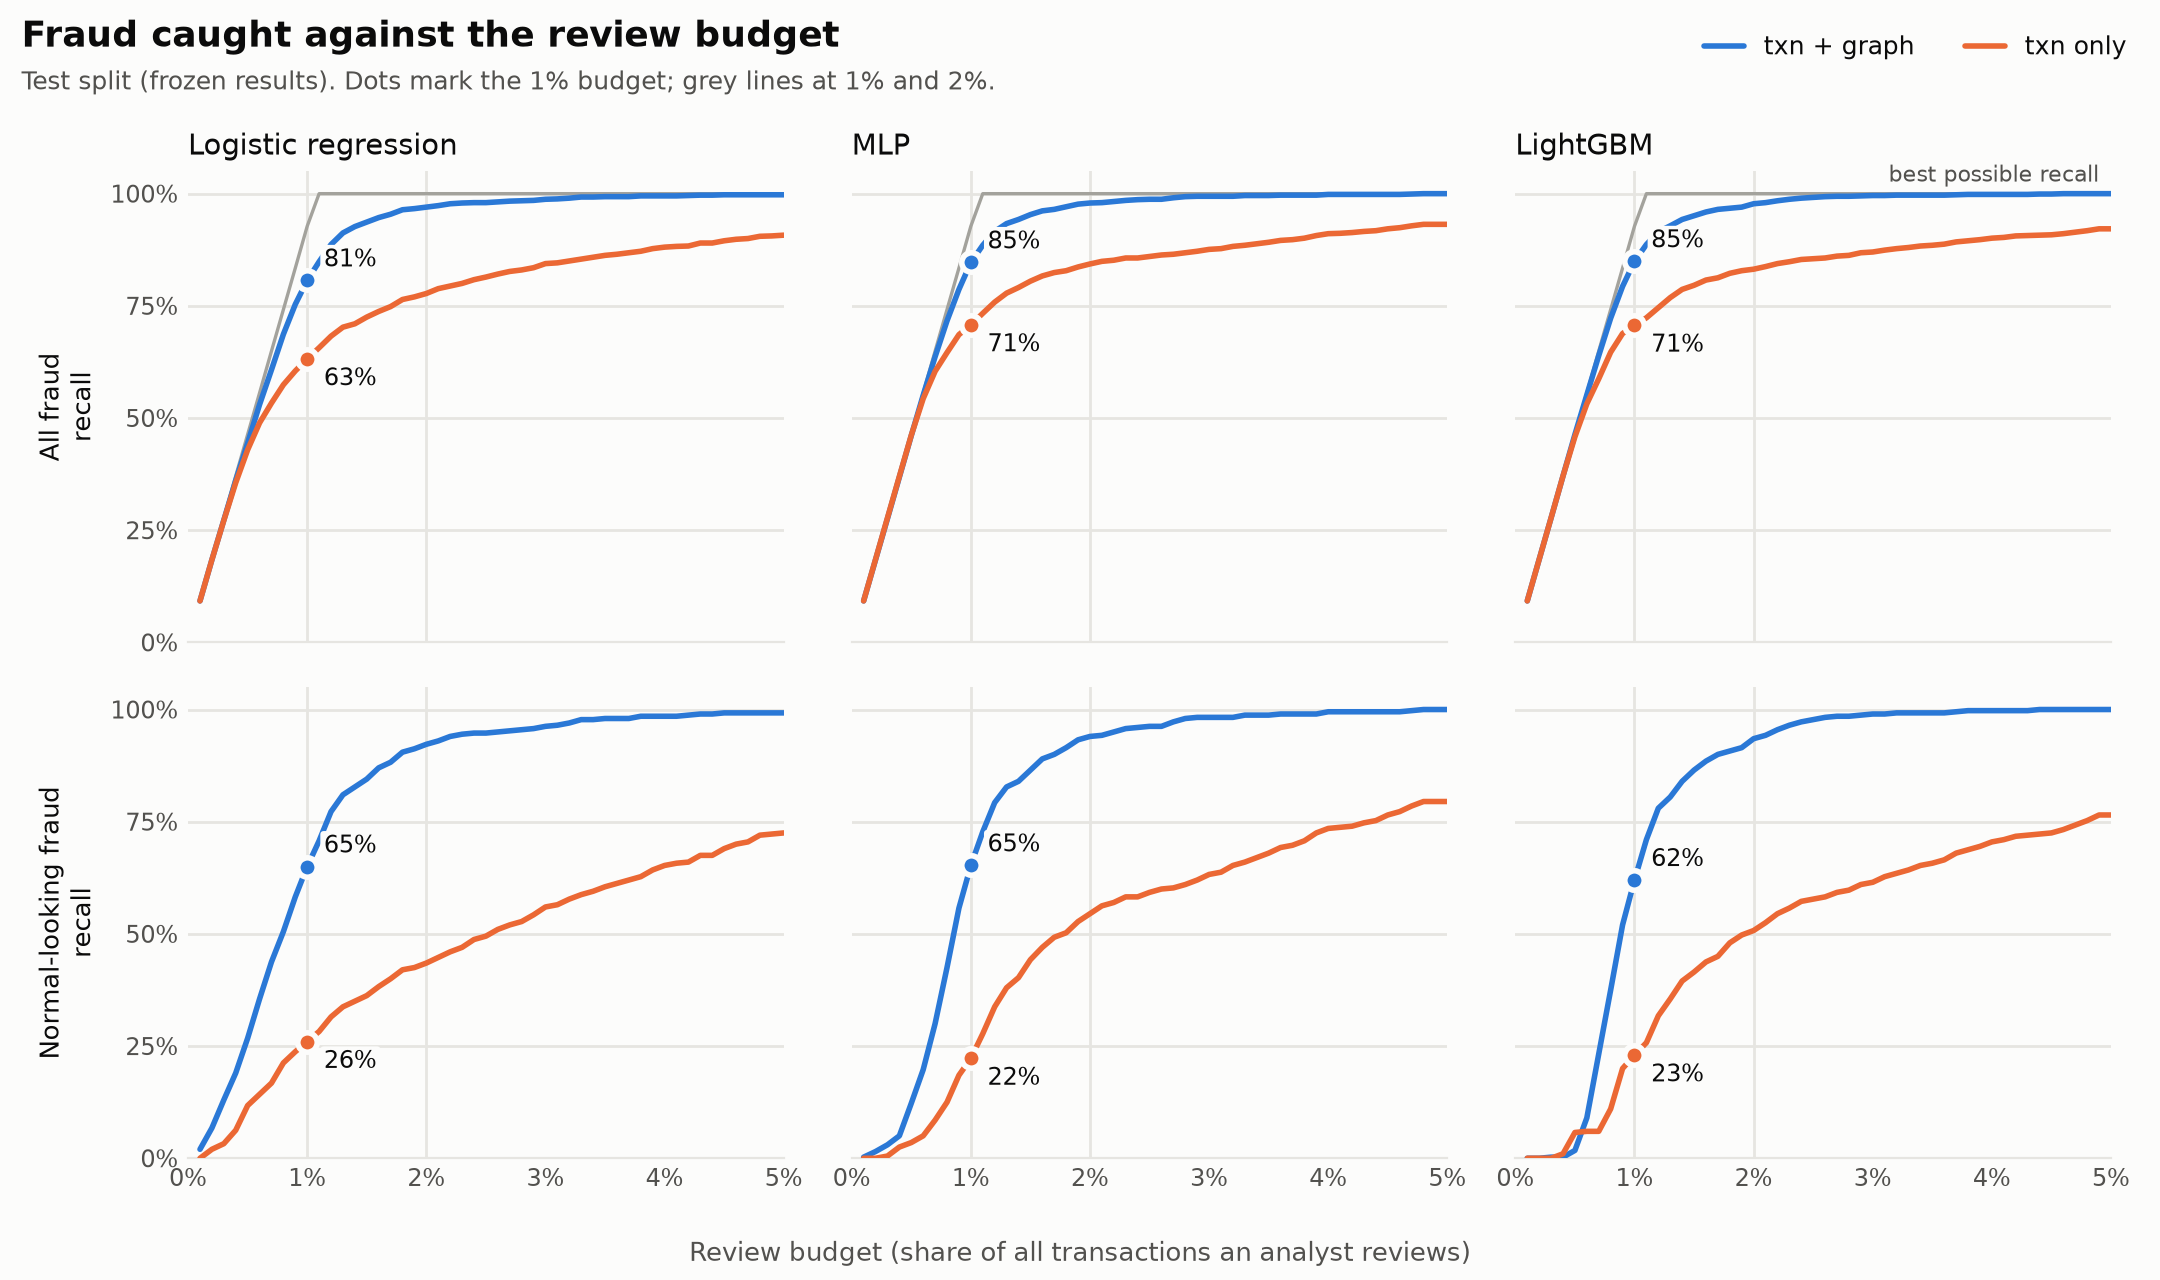
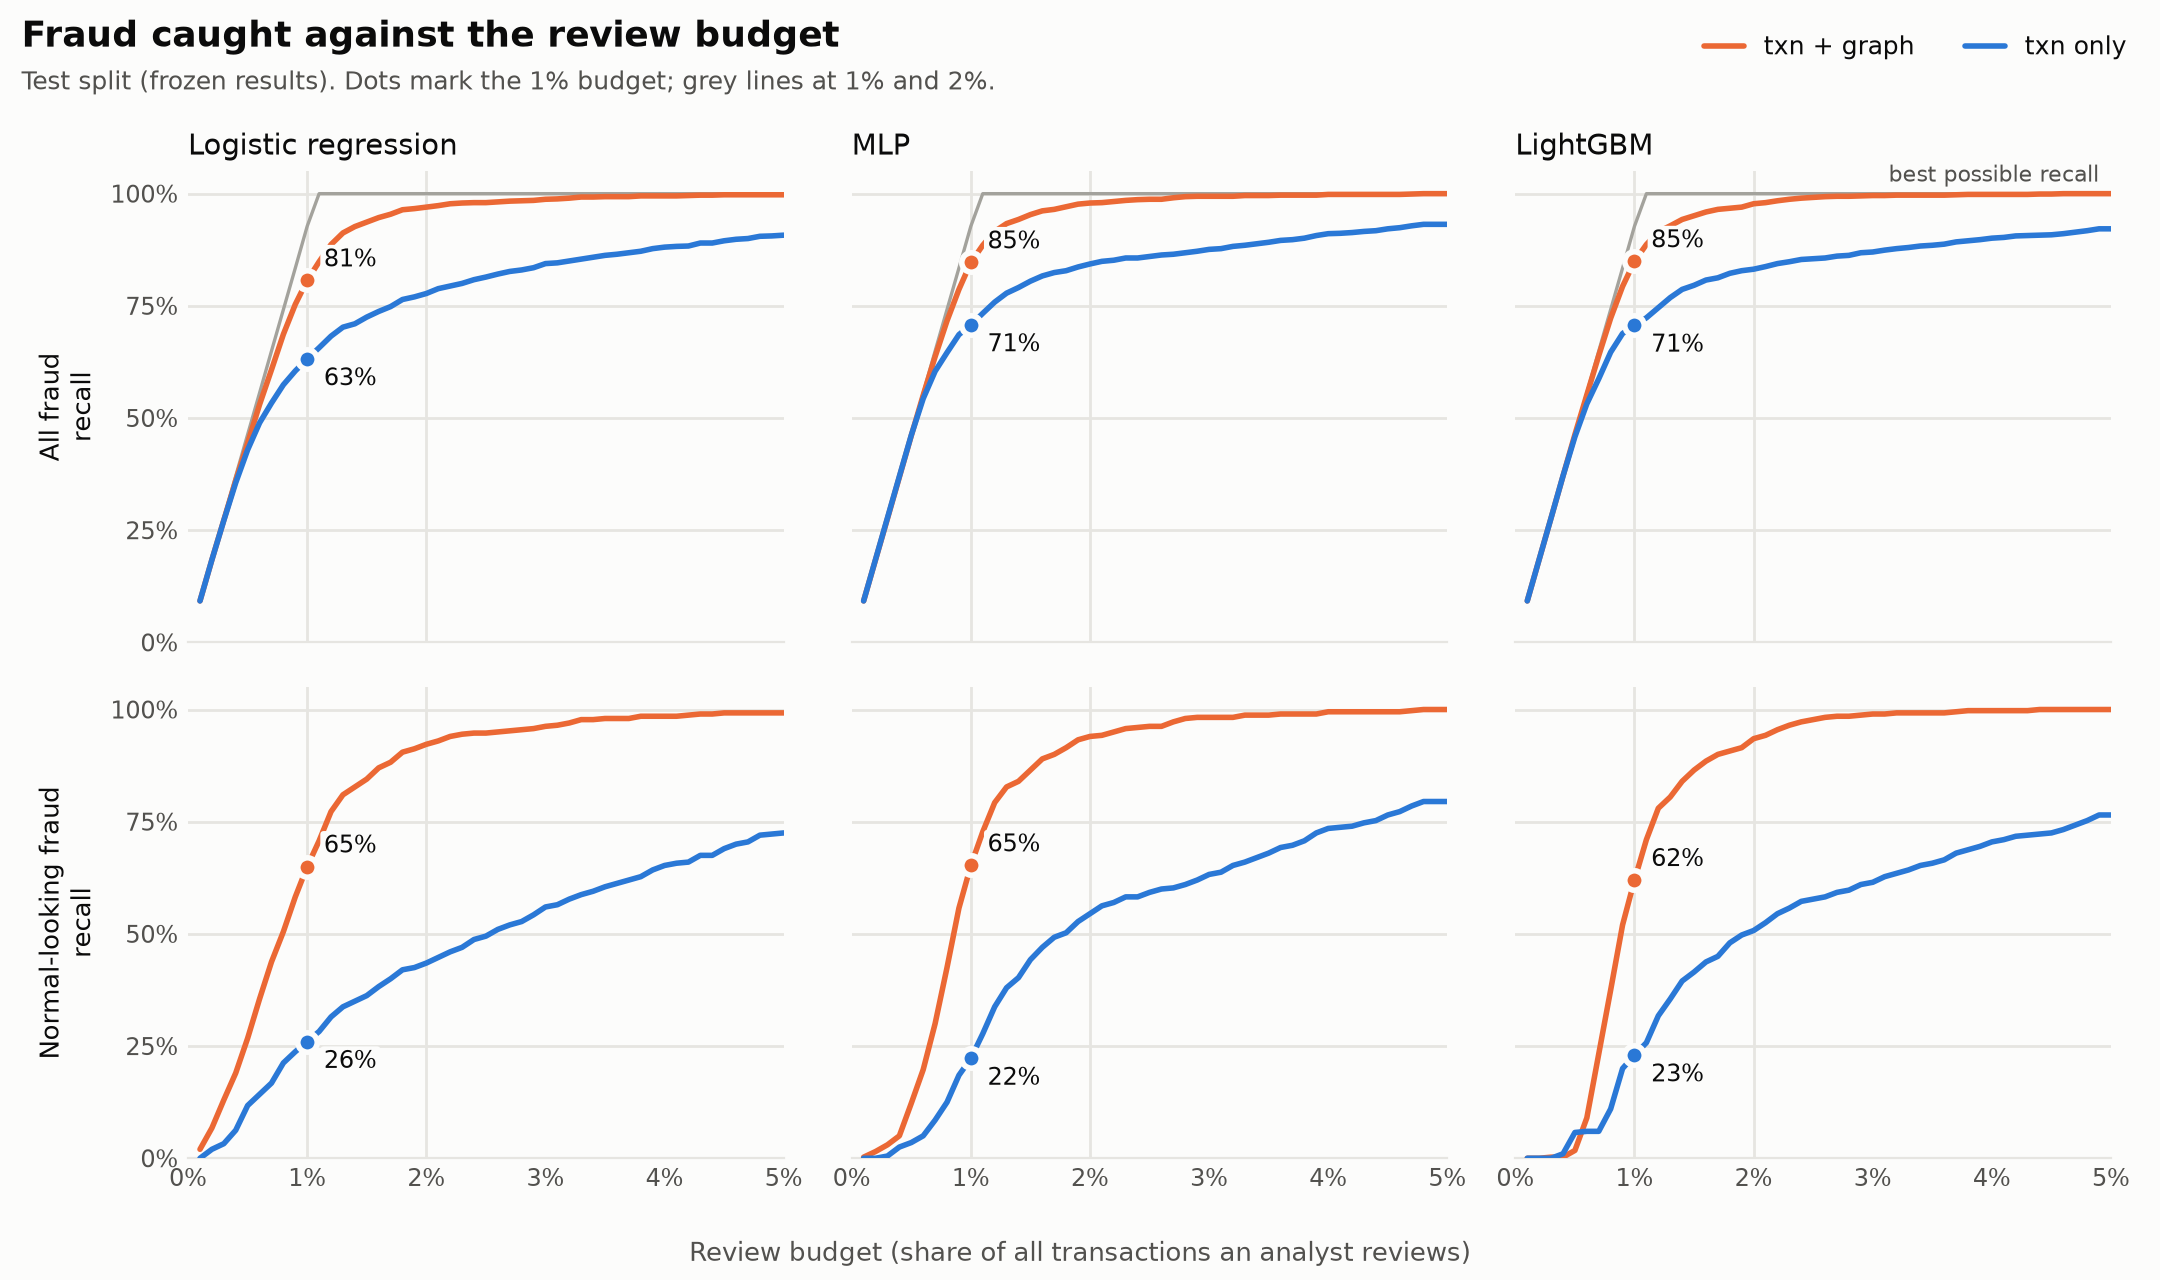
Fix cut-off dashboard text, match budget curve colours to dashboard

diff --git a/app/ui.py b/app/ui.py
@@ -113,12 +113,54 @@ def fs_label(fs):
 
 
 def css():
-    """A little spacing polish on top of the theme. Nothing structural."""
+    """A little spacing polish on top of the theme. Nothing structural.
+
+    Streamlit cuts metric labels, values and deltas, and badges, with "…" when they don't fit the
+    tile. Here every one of them wraps instead. Values keep one size across the app and break only
+    at spaces (an id breaks mid-number only if nothing else fits). A row made only of tiles becomes
+    an even grid that wraps to a second row, so no tile gets squeezed. The case card (customer and
+    merchant ids) has its own layout in cases.py's keyed container.
+    """
     st.html("""<style>
       .block-container {padding-top: 2.2rem; max-width: 1280px;}
       [data-testid="stMetricLabel"] p {font-size: 0.85rem; color: var(--st-secondary-text-color, inherit);}
       [data-testid="stMetricValue"] {font-weight: 600;}
       button[data-baseweb="tab"] p {font-size: 0.95rem;}
+
+      [data-testid="stMetric"] label,
+      [data-testid="stMetric"] label *,
+      [data-testid="stMetricValue"], [data-testid="stMetricValue"] *,
+      [data-testid="stMetricDelta"], [data-testid="stMetricDelta"] * {
+        overflow: visible !important; text-overflow: clip !important;
+        white-space: normal !important; overflow-wrap: break-word; height: auto !important;
+      }
+      [data-testid="stMetric"] label {align-items: flex-start; line-height: 1.3;}
+      [data-testid="stMetricValue"] {font-size: 1.6rem !important; line-height: 1.2;}
+      [data-testid="stMetricValue"] p {font-size: inherit !important;}
+      [data-testid="stMetricDelta"] {width: fit-content; max-width: 100%;}
+      [data-testid="stMarkdownContainer"] span[style*="background-color"] {
+        white-space: normal !important; display: inline-block; max-width: 100%; line-height: 1.4;
+      }
+
+      /* rows whose first and last columns each hold one tile (no nested :has, which CSS forbids): even grid, wraps to full rows instead of squeezing */
+      [data-testid="stHorizontalBlock"]:has(> [data-testid="stColumn"]:first-child > [data-testid="stVerticalBlock"] > [data-testid="stElementContainer"]:only-child > [data-testid="stMetric"]):has(> [data-testid="stColumn"]:last-child > [data-testid="stVerticalBlock"] > [data-testid="stElementContainer"]:only-child > [data-testid="stMetric"]) {
+        display: grid !important; grid-template-columns: repeat(auto-fit, minmax(8.5rem, 1fr)); gap: 1rem;
+      }
+      [data-testid="stHorizontalBlock"]:has(> [data-testid="stColumn"]:first-child > [data-testid="stVerticalBlock"] > [data-testid="stElementContainer"]:only-child > [data-testid="stMetric"]):has(> [data-testid="stColumn"]:last-child > [data-testid="stVerticalBlock"] > [data-testid="stElementContainer"]:only-child > [data-testid="stMetric"]) > [data-testid="stColumn"] {
+        width: auto !important; min-width: 0 !important; flex: none !important;
+      }
+
+      /* case card: ids are 10-11 characters with no break point, so they get the wider columns;
+         when the card is narrow, day / amount / category go on one row and the two ids on the next */
+      .st-key-case_card {container-type: inline-size;}
+      .st-key-case_card [data-testid="stHorizontalBlock"] {
+        grid-template-columns: 2fr 2fr 3fr 4fr 4fr !important;
+      }
+      @container (max-width: 52rem) {
+        .st-key-case_card [data-testid="stHorizontalBlock"] {grid-template-columns: repeat(6, 1fr) !important;}
+        .st-key-case_card [data-testid="stHorizontalBlock"] > [data-testid="stColumn"]:nth-child(-n+3) {grid-column: span 2;}
+        .st-key-case_card [data-testid="stHorizontalBlock"] > [data-testid="stColumn"]:nth-child(n+4) {grid-column: span 3;}
+      }
     </style>""")
 
 

diff --git a/src/eval/figures.py b/src/eval/figures.py
@@ -17,7 +17,7 @@ import pandas as pd  # noqa: E402
 from src.config import FIG_DIR, TABLE_DIR  # noqa: E402
 
 # Reference palette (dataviz skill): categorical slots 1-2 validated as a pair; text and grid tokens.
-SERIES = {"txn_graph": ("#2a78d6", "txn + graph"), "txn": ("#eb6834", "txn only")}
+SERIES = {"txn_graph": ("#eb6834", "txn + graph"), "txn": ("#2a78d6", "txn only")}   # matches the dashboard: txn blue, graph orange
 SURFACE, TEXT, TEXT_2, GRID = "#fcfcfb", "#0b0b0b", "#52514e", "#e6e5e1"
 CEILING = "#a3a29c"   # reference line: quieter than the data, louder than the grid
 MODEL_LABELS = {"lr": "Logistic regression", "mlp": "MLP", "lgbm": "LightGBM"}

diff --git a/app/tabs/cases.py b/app/tabs/cases.py
@@ -227,7 +227,7 @@ def overview(model, split, pct, cnt, sel_subset="all"):
 
 
 def case_card(r, split):
-    with st.container(border=True):
+    with st.container(border=True, key="case_card"):       # key: ui.css() gives the ids wider columns
         with st.container(horizontal=True, vertical_alignment="center"):
             st.markdown(f"**Transaction {int(r.txn_id)}**")
             if "normal_looking" in r.index and pd.notna(r["normal_looking"]):
